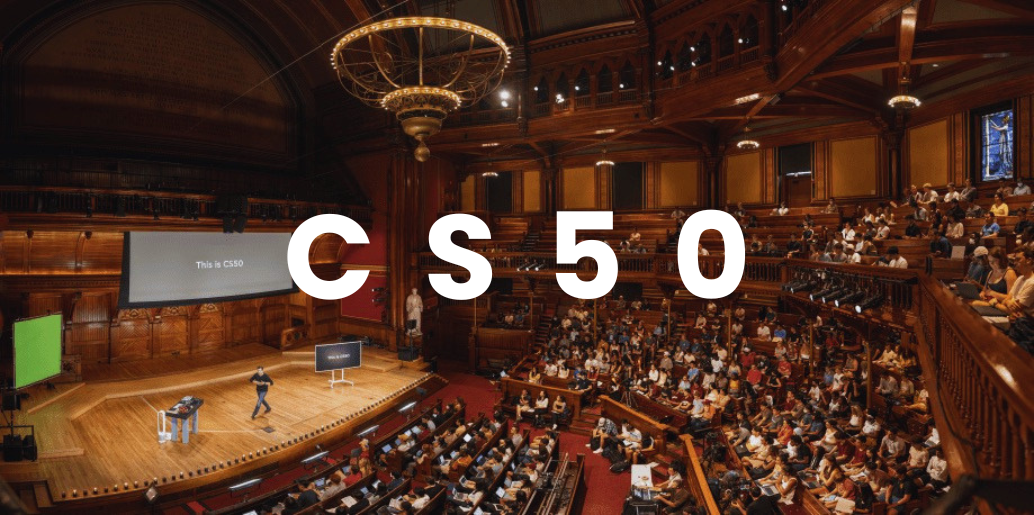
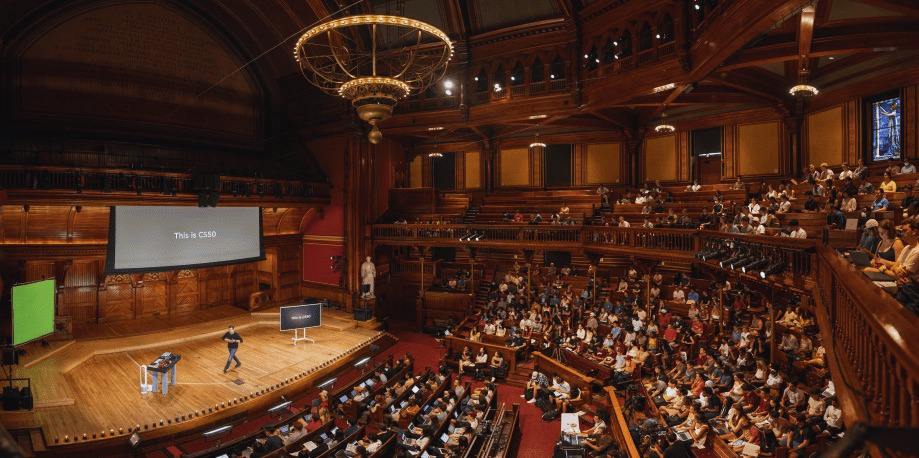
swiper function and first prototype

diff --git a/styles.css b/styles.css
@@ -1,12 +1,10 @@
 :root
 {
-    --bg-main: #0e0e0e;
-    --text-color: white;
+    --bg-main: black; 
+    --dark-grey: #0e0e0e;
+    --text-color:white; 
     --elgant-line: rgba(255,255,255, 0.5);
-    --transition-slow: 3s cubic-bezier(0.16, 1, 0.3, 1);
-    --transition-fast: 1s cubic-bezier(0.16, 1, 0.3, 1);  
-    --transition-mid:  2s cubic-bezier(0.16, 1, 0.3, 1);
-    --transition-mid: 2s cubic-bezier(0.16, 1, 0.3, 1);
+    --transition-formula: cubic-bezier(0.16, 1, 0.3, 1);
 }
 *, *::before, *::after
 {
@@ -36,135 +34,90 @@ body
     font-family: "adifont", sans-serif;
 }
 
+.mainphoto img
+{
+    width: 75vw;
+    object-fit: cover;
+}
 .icons
 {
-    display: flex;
-    flex-direction: row ;
-    gap: 8px;
-    margin: 10px 0 0 10px;
+    width: fit-content; 
+    margin: 10px auto ;
+    gap: 20px;
 }
 
-.NotionIcon
+.githubIcon, .NotionIcon
 {
-    transition: transform var(--transition-mid);
-    width: 36px;
-    height: 36px;
+    transition: transform 2s var(--transition-formula); 
+    width: clamp(28px, 3vw, 45px);
+    aspect-ratio: 1/1;
 }
-
-.NotionIcon:hover
-{
-    transform: scale(1.10);
-}
-
-.githubIcon
-{
-    transition: transform var(--transition-mid); 
-    width: 36px;
-    height: 36px;
-}
-.githubIcon:hover
+.githubIcon:hover, .NotionIcon:hover
 {
 transform: scale(1.10);
 }
 
-.swiper-slide
+.swiper
 {
-    margin-top: 100px;
-    display: flex;
-    margin: 0px auto;
-    width: fit-content;
-    flex-flow: row nowrap; 
-    justify-content: center;
-    gap: 40px;
+    padding-bottom: clamp(5px,2vh,30px);
+    padding-top: clamp(5px,2vh,30px);
+    padding-left: clamp(6px, 20vw, 480px);
 }
+
 
 .card
 {
-    display: flex; 
-    flex-flow: column nowrap;
-    flex: 0 0 550px;
-    width: 550px ;
-    background-color: var(--bg-main);
-    transition: transform var(--transition-slow),
-                opacity 2s ease,
-                filter 1s ease;
+    position: relative;
+    cursor: pointer;
+    border-radius: 8px;
+    overflow: hidden;
+    width: clamp(40px, 30vw, 520px);
+    transition: transform 2s var(--transition-formula),
+    filter 1s var(--transition-formula);
 }
+
+
+/*.card-label
+{
+    position: absolute; 
+    bottom: clamp(5px, 5%, 50px);
+    left: clamp(10px, 8%, 40px);
+}*/
 
 .card .media 
-
-{
+{ 
     width: 100%;
-    height: 250px;
+    aspect-ratio: 4.5/2.5;
 }
-
 .card .media img
 {
     width: 100%;
     height: 100%;
     object-fit: cover;
-}
-
-.swiper-slide:hover .card
-{
-    opacity: 0.4;
-    filter: blur(1px);
-    transform: scale(0.98);
-}
-
-.swiper-slide .card:hover
-{
-    opacity: 1;
-    filter: blur(0px);
-    transform: scale(1.03);
-}
-
-
-
-.project .project-media img
-{
-    width: 20rem;
-    height: 15rem;
-    object-fit: cover;
-}
-
-.project-slider
-{
-    display: flex;
-    outline: 5px solid var(--elgant-line);
-    width: fit-content; 
-    margin:  auto; 
-    flex-flow: row nowrap;
-    justify-content: center;
-}
-
-/*.project-slider:hover 
-{
-   transform: scale(0.95);
-   filter: blur(10px);
-   opacity: 0.5;
-}*/
-
-.project
-{
-    transition: transform 1s ease,
-                opacity 1s ease,
-                filter 1s ease;
-}
-.project-slider:hover .project
-{
-    transform: scale(0.95);
-    opacity: 0.5;
-}
-.project-slider .project:hover
-{
-    transform: scale(1.05);
-    filter: blur(0px);
-    opacity: 1;
-}
-
-#mainvid
-{
     display: block;
-    width: fit-content;
-    margin-left: auto;
+}
+
+.card:hover 
+{
+    filter:brightness(1.3);
+    transform: scale(1.05);
+}
+
+.collectionName
+{
+    margin-bottom: clamp(10px, 2vh, 30px);
+    font-size: clamp(1.1rem, 2.3vw, 2.5rem);
+    letter-spacing: 2px;
+    text-transform: uppercase;
+    line-height: 1;
+}
+
+
+.card-content
+{
+    opacity: 0;
+    transform: translateY(25px);
+    transition: opacity 60ms var(--transition-formula), 
+                transform 60ms var(--transition-formula); 
+
 }

diff --git a/index.html b/index.html
@@ -1,8 +1,9 @@
 <!DOCTYPE html>
 <html>
     <head>
-        <link rel="stylesheet" href="styles.css">
+        <meta name="viewport" content="width=device-width, initial-scale=1.0">
         <link rel="stylesheet" href="https://cdn.jsdelivr.net/npm/swiper@11/swiper-bundle.min.css">
+        <link rel="stylesheet" href="styles.css">
         <title> 
             adidas x mostafa
         </title>
@@ -13,10 +14,20 @@
                 <a class="githubLink" href ="https://github.com/ms1a-eng" target="_blank" rel="noopener noreferrer"><img class="githubIcon" src="Bilder/GitHub.png" alt="GitHub in white"></a>
                 <a class="NotionLink"  href ="https://mature-baboon-dd3.notion.site/adidas-x-mostafa-39feb5472fcc8019b490dba3f17aba53" target="_blank" rel="noopener noreferrer"><img class = "NotionIcon" alt="Notion Icon in white" src ="Bilder/Notion.png"></a>
             </div>
+            <!--<div class="mainphoto" ><img src="Bilder/sideprofile.png" alt="side profile photo of the candidate"></div>-->
                 <div class = "swiper">
+                    <h2 class="collectionName">Kaderzyklus</h2>
                     <div class="swiper-wrapper">
                         <article class="card swiper-slide">
                             <div class="media"> <img id="cs50" src="Bilder/CS50.png" alt="CS50 lecture photo"></div>
+                            <div class="card-content"> 
+                                <h2 class="title">Harvard Introduction to Computer Science </h2> 
+                                <p class="text">Ursprünglich als Auffrischung gedacht, forderte 
+                                mich der Kurs weit über den Code hinaus. Die Problem Sets erforderten ein Arbeitsniveau,
+                                das erst durch feste Routinen, absolute Konzentration und das Vorab-Planen der Logik mit Stift und 
+                                Papier möglich wurde
+                                </p>  
+                             </div>
                         </article>
                         <article class="card swiper-slide">
                             <div class="media"> <img src="Bilder/MIT.png" alt="MIT house photo"></div>
@@ -25,6 +36,8 @@
                             <div class="media"> <img src="Bilder/TU-Darmstadt.png" alt="TU-Darmstadt house photo"></div>
                         </article>
                     </div>
+                    
+
                 </div>
         </main>
         
@@ -32,8 +45,6 @@
         <script src="swiper.js"></script>
     </body>
 </html>
-
-
         <!--Harvard Introduction to Computer Science</h3>
         Ursprünglich als Auffrischung gedacht, forderte 
         mich der Kurs weit über den Code hinaus. Die Problem Sets erforderten ein Arbeitsniveau,

diff --git a/swiper.js b/swiper.js
@@ -1,4 +1,20 @@
 const swiper = new Swiper(".swiper", {
-
+    slidesPerView: "auto", 
+    spaceBetween: 22,
+    slideToClickedSlide: true, 
+    centeredSlides: true,
 }
 );
+
+swiper.on("click", function(){
+
+    const swiperEl = document.querySelector(".swiper"); 
+    if(swiper.clickedIndex === swiper.activeIndex && swiperEl.classList.contains("is-magazine"))
+    {
+        swiperEl.classList.remove("is-magazine");
+    }
+    else 
+    {
+        swiperEl.classList.add("is-magazine");
+    }
+});
